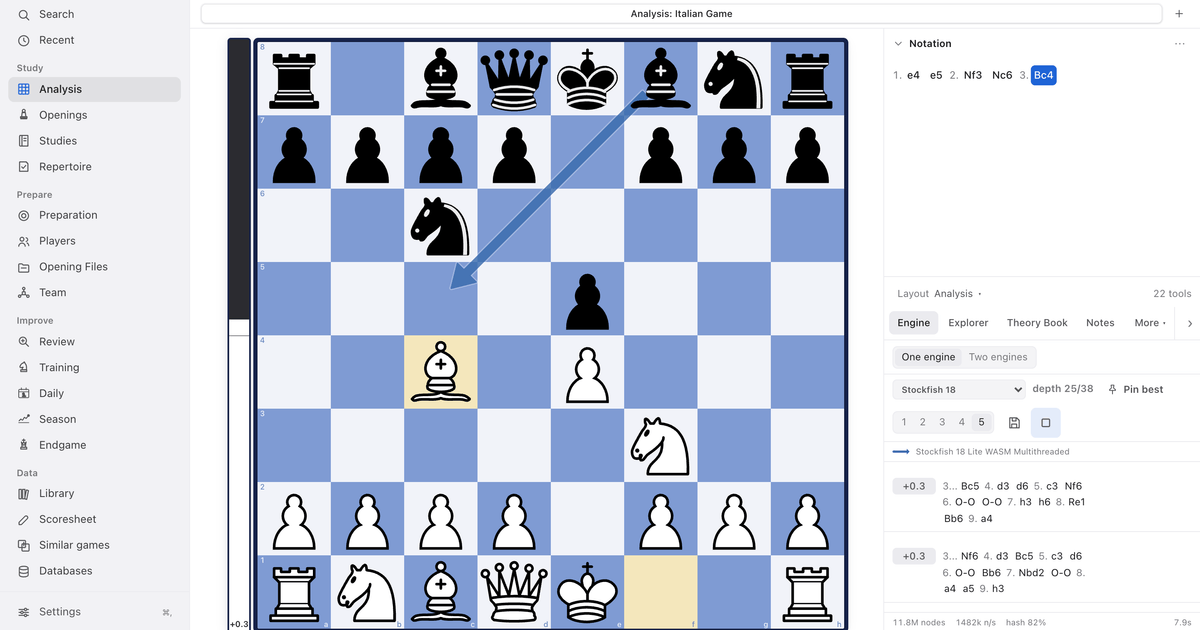
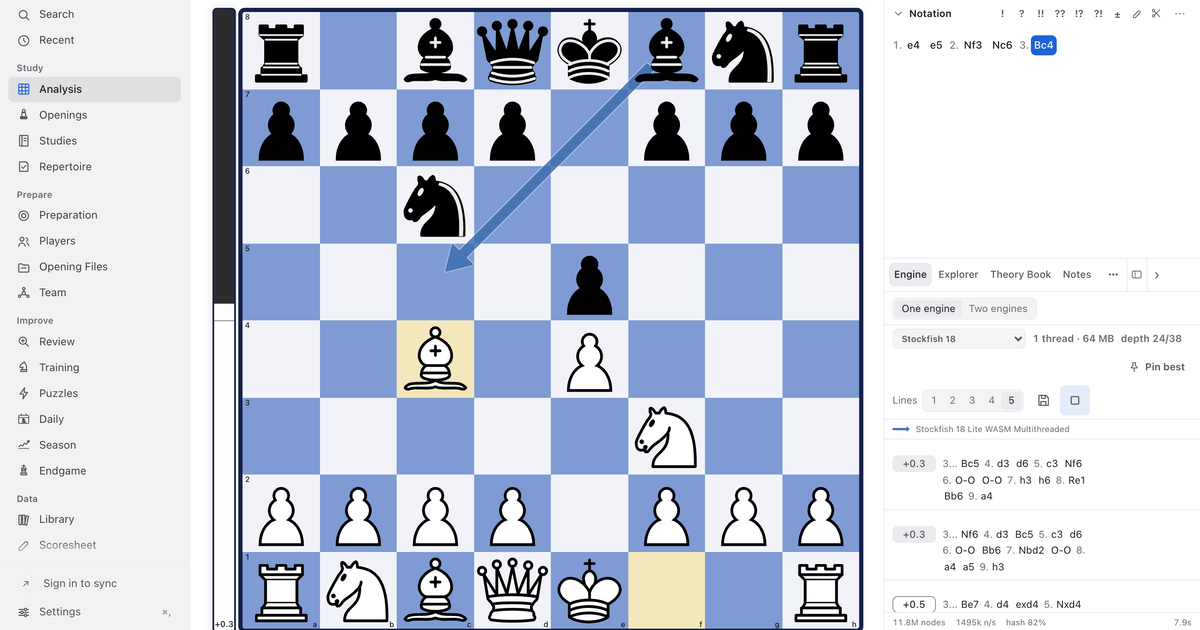
Re-shoot the landing from tonight's Studio
The hero, research and engine images dated from 2026-09-23. They showed
a tab strip the Studio no longer draws and lacked its account row, so
the landing showed an interface the product had moved past. They are
re-taken from the running application with the existing capture script.
The social card is regenerated from the new hero.

The script found the dock's resize handle by role "button". The handle
is now a `separator`, so the research capture had stopped working; it
uses the separator role. The hero's alt text no longer lists Databases,
which this frame doesn't show.

diff --git a/src/app/landing/LandingPage.tsx b/src/app/landing/LandingPage.tsx
@@ -40,11 +40,11 @@ import './landing.css';
  * pixels (the light and dark captures of one image are the same size).
  */
 const CAPTURES = '/landing/img';
-const CAPTURED = '2026-09-23';
-const RESEARCH_SIZE = { width: 1718, height: 1414 };
-const ENGINES_SIZE = { width: 1558, height: 1302 };
+const CAPTURED = '2026-10-15';
+const RESEARCH_SIZE = { width: 1718, height: 1304 };
+const ENGINES_SIZE = { width: 1558, height: 1446 };
 const HERO_ALT =
-  'The Kingfisher analysis workspace: the board after 1. e4 e5 2. Nf3 Nc6 3. Bc4 with Stockfish 18 running, its best move drawn as an arrow on the board beside the evaluation bar, the notation and the engine lines in the panel beside it, and the workspace sections — Analysis, Openings, Studies, Repertoire, Preparation, Players, Opening Files, Review, Training, Library, Databases — in the sidebar';
+  'The Kingfisher analysis workspace: the board after 1. e4 e5 2. Nf3 Nc6 3. Bc4 with Stockfish 18 running, its best move drawn as an arrow on the board beside the evaluation bar, the notation and the engine lines in the panel beside it, and the workspace sections — Analysis, Openings, Studies, Repertoire, Preparation, Players, Opening Files, Review, Training, Library — in the sidebar';
 const RESEARCH_ALT =
   "The Explorer on the Najdorf after 5...a6, comparing the Kingfisher Starter Reference with the Recent Theory Reference: the same candidate moves, each source's own game count and frequency in its own column, and no combined figure";
 const ENGINES_ALT =

diff --git a/THIRD_PARTY_ASSETS.md b/THIRD_PARTY_ASSETS.md
@@ -217,25 +217,25 @@ is not protected" line is in the hero. The displayed piece and board artwork
 retains the attribution recorded above. Replace all of them together, with
 the script, when the workspace changes.
 
-`public/landing/img/workspace-2026-09-23.webp` and `…-dark.webp` — the hero.
-The analysis workspace of the Phase 84 working tree (after `024dd1a`, the
-Studio design of Phases 82–84 with the framed evaluation bar), taken on
-2026-09-23 at 1440 × 900 at 2× and encoded at 2240 × 1400 (WebP q82).
+`public/landing/img/workspace-2026-10-15.webp` and `…-dark.webp` — the hero.
+The analysis workspace after `708e6f1d` (no tab strip while one tab is open,
+the engine's Lines label, the sidebar's account row), taken on 2026-10-15
+UTC at 1440 × 900 at 2× and encoded at 2240 × 1400 (WebP q82).
 Stockfish 18 Lite WASM Multithreaded was started on the position after
 `1. e4 e5 2. Nf3 Nc6 3. Bc4` with MultiPV 5 and the capture waited for the
 engine's arrow, then eight seconds; the panel shows the depth it had reached.
 
-`public/landing/img/engines-2026-09-23.webp` and `…-dark.webp` — the Engines
+`public/landing/img/engines-2026-10-15.webp` and `…-dark.webp` — the Engines
 section. The same search with the Notation section folded, cropped to the
-engine panel and the right half of the board (1558 × 1302, WebP q82).
+engine panel and the right half of the board (1558 × 1446, WebP q82).
 
-`public/landing/img/research-2026-09-23.webp` and `…-dark.webp` — the Research
+`public/landing/img/research-2026-10-15.webp` and `…-dark.webp` — the Research
 section. The Explorer's source comparison on the Najdorf after `5...a6`, with
 the bundled Kingfisher Starter Reference against the Recent Theory Reference
 (installed by the script from its public manifest, 34 MB), each in its own
 column with its own game count; the Notation section folded, the variation
 brief folded away and the dock widened by its handle so both columns fit,
-cropped down to the end of the comparison table (1718 × 1414, WebP q82).
+cropped down to the end of the comparison table (1718 × 1304, WebP q82).
 
 `public/landing/img/og.png` — the social card, 1200 × 630, the light hero
 scaled to 1200 wide and cropped from 48 px below its top edge (PNG, palette).
